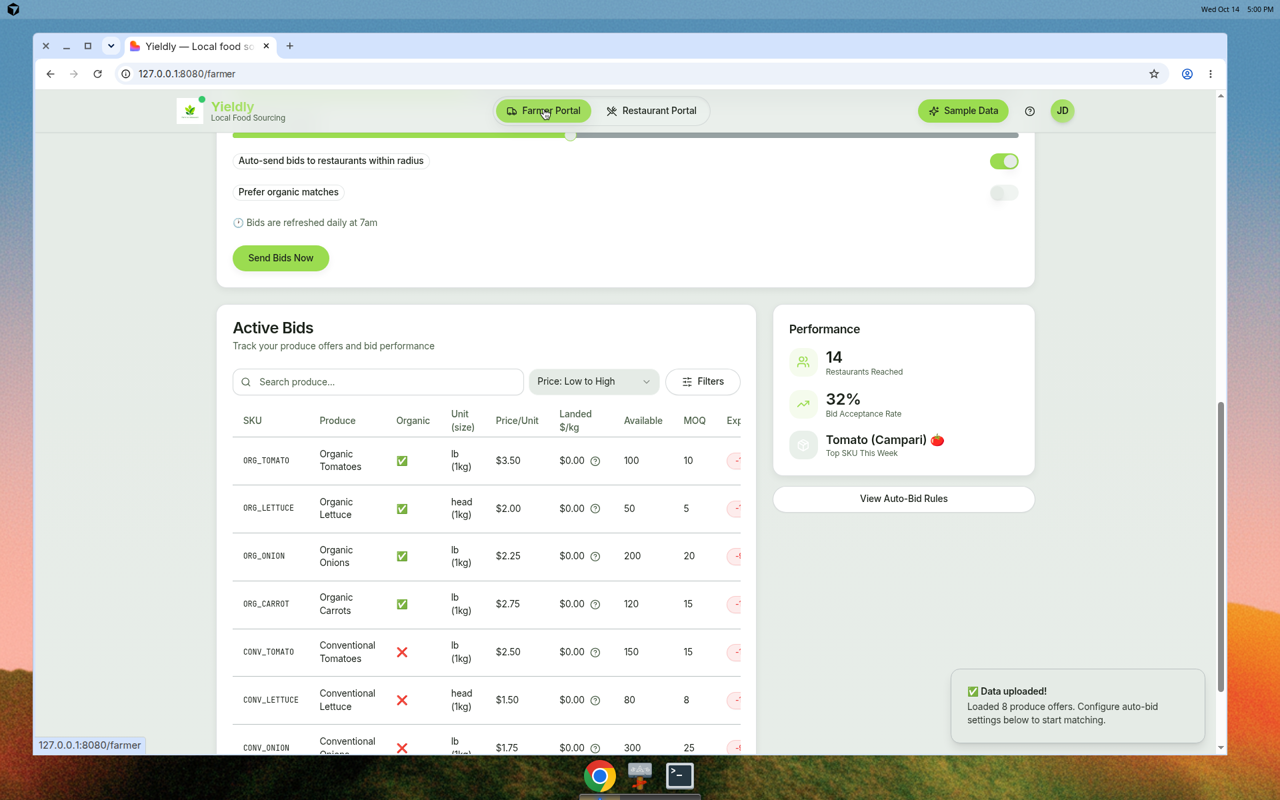
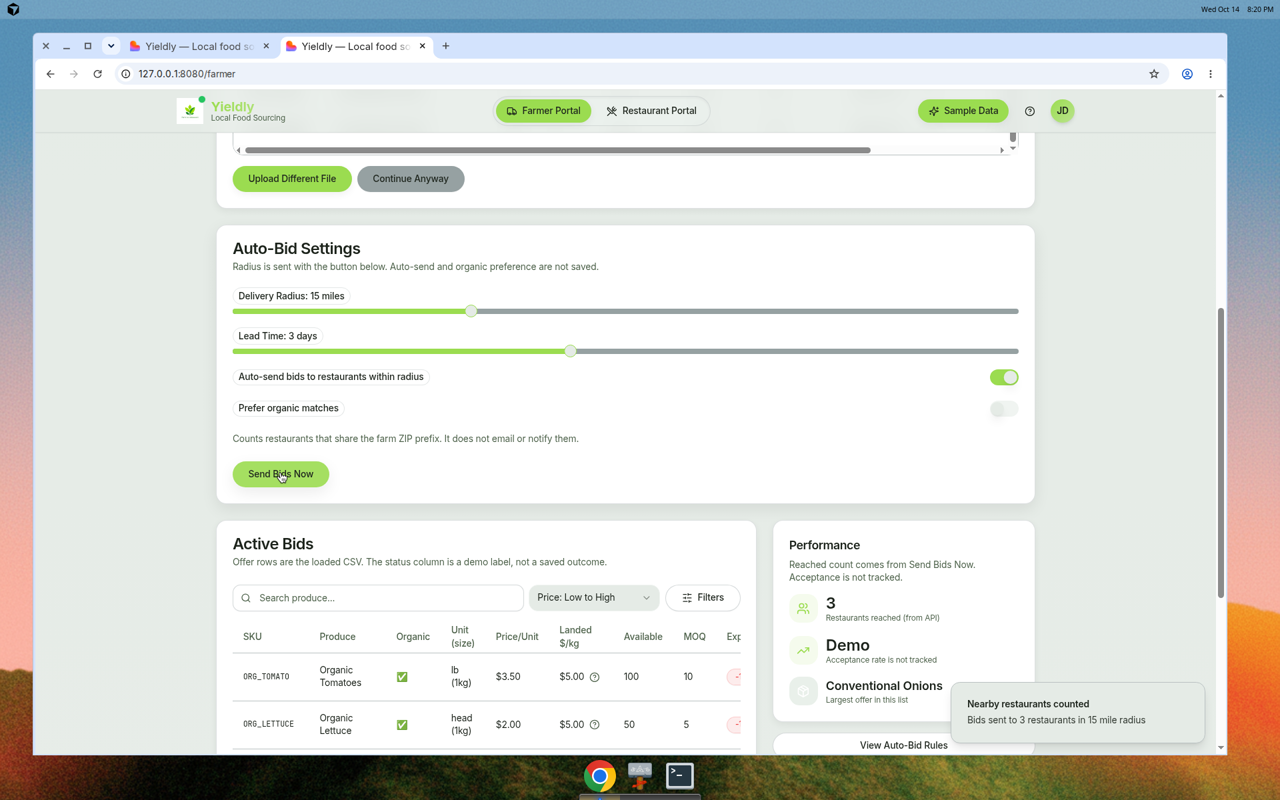
Document the signed savings, real bid count, and shared demand.
Replace the local screenshots so the README matches the farmer landed cost, the API restaurant count, weekly demand, and the cost-increase badge.

diff --git a/README.md b/README.md
@@ -8,15 +8,17 @@ Git history has one author, [Krishiv Seth](mailto:krishivseth05@gmail.com): the 
 
 ## Screenshots
 
-Farmer portal after **Sample Data**. The offer rows are parsed in the browser from `backend/sample_csvs/farmer_offers.csv`. The performance card (14 restaurants, 32% acceptance, top SKU) is hardcoded placeholder copy.
+Farmer portal after the sample CSV loads. Organic Tomatoes show a landed cost of **$5.00/kg** (`delivery_fee` of $15 spread over the minimum order). **Send Bids Now** asked the API how many restaurants share farm `FARM001`'s ZIP prefix; the card shows **3**. Acceptance is labeled demo because bid outcomes are not stored. The largest row in this CSV is Conventional Onions.
 
-![Farmer portal with sample offers loaded](docs/screenshots/farmer-portal.png)
+![Farmer portal with a real landed cost and restaurant count](docs/screenshots/farmer-portal.png)
 
-Restaurant portal after **Sample Data**, **Calculate Weekly Demand**, and **AI Optimize Plan**. The bids and the purchase plan are responses from the API on port 8000. The green badge reads “Savings vs baseline: $79.42/week”. On this same sample, `POST /restaurant/optimize_plan` returned `savings_vs_baseline` of about **-79.42**: the constrained plan cost more than the unconstrained baseline, and the UI prints `Math.abs`. See [Known issues](#known-issues).
+Restaurant demand for the sample menu, including 5% safety stock. Organic Lettuce is **8.29 kg**. Organic Carrots are on the list because the on-screen CSV includes them.
 
-![Restaurant bids from the API](docs/screenshots/restaurant-bids.png)
+![Weekly demand calculated from the menu on screen](docs/screenshots/restaurant-demand.png)
 
-![Purchase plan returned by the API](docs/screenshots/restaurant-purchase-plan.png)
+The purchase plan uses those same rows. The badge says **Cost increase vs baseline: $363.76/week** because minimum order quantities buy more than the menu needs, so `savings_vs_baseline` is negative. Lettuce in the plan is 8.29 kg, the same figure as the demand table. Onion and carrot quantities are higher because of minimum orders.
+
+![Purchase plan labeled as a cost increase](docs/screenshots/restaurant-purchase-plan.png)
 
 ## What the app actually does
 
@@ -26,19 +28,19 @@ Restaurant portal after **Sample Data**, **Calculate Weekly Demand**, and **AI O
 
 - Upload a produce CSV. With `GEMINI_API_KEY` set, column mapping can use Gemini. Without it, mapping is substring matching on the headers.
 - **Sample Data** loads the database seed and then shows `farmer_offers.csv` in the table.
-- Auto-bid radius, lead time, and organic preference are controls on the page. **Send Bids Now** only shows a toast. It does not call `POST /farmer/send_bids_now`.
-- **View Auto-Bid Rules** saves nothing. The dialog says the rule was created in demo mode.
+- **Send Bids Now** calls `POST /farmer/send_bids_now` with the radius slider and farm id `FARM001` (or a `farm_id` on the loaded rows). The API counts restaurants that share that farm's ZIP prefix. It does not email anyone. The performance card shows that count. Acceptance rate is labeled demo. The third line is the largest offer in the loaded list.
+- Auto-send and the organic preference switch are not saved. **View Auto-Bid Rules** saves nothing and says the rule was created in demo mode. The status column is labeled demo.
 
 **Restaurant portal** (`/restaurant`)
 
 - **Sample Data** loads the database seed, then shows `restaurant_menu.csv` (5 menu items) and `restaurant_ingredients.csv` (11 ingredients) in the page.
-- **Calculate Weekly Demand** runs in the browser from those rows (recipe quantity × expected orders ÷ yield).
+- **Calculate Weekly Demand** calls `POST /restaurant/weekly_demand` with the menu and ingredients on screen, including 5% safety stock.
 - **Bids in Your Area** calls `GET /restaurant/bids` for restaurant id `1`.
-- **AI Optimize Plan** calls `POST /restaurant/optimize_plan`. Without a Gemini key, the explanation is the built-in fallback sentence, not a model response.
+- **AI Optimize Plan** calls `POST /restaurant/optimize_plan` with those same menu rows. Without a Gemini key, the explanation is the built-in fallback sentence. If the plan costs more than the unconstrained baseline, the badge says cost increase instead of savings. Accepting the plan repeats that same figure.
 - Purchase-order and price-change export buttons call the export endpoints and download a CSV.
 - The market-intelligence panel calls `POST /restaurant/analyze_market_trends`. Without `BRAVE_SEARCH_API_KEY`, that service uses its built-in stand-in figures.
 
-The weekly demand table and the purchase plan are not the same calculation. Demand is computed in the browser from the sample CSVs. The optimizer reads SQLite for restaurant id `1`, which the seed fills with 3 menu items and 6 ingredients (Garden Salad, Caesar Salad, Tomato Soup). The sample CSVs also include a BLT and extra ingredients.
+Weekly demand and the purchase plan both start from the menu on screen. A plan quantity can still be higher than that demand when a farm's minimum order is larger than the menu needs. Offers themselves still come from the SQLite seed, whose expiry dates are relative to today. The farmer table is the CSV, whose expiry dates are January 2024.
 
 ## Setup
 
@@ -115,10 +117,11 @@ CORS allows `http://localhost:8080` and `http://127.0.0.1:8080`.
 | `POST` | `/dev/load_sample_data` | Replace SQLite rows with the seed |
 | `GET` | `/dev/sample_csvs/{filename}` | Download a file from `backend/sample_csvs/` |
 | `POST` | `/farmer/process_data` | Map and parse a farmer CSV payload |
-| `POST` | `/farmer/send_bids_now` | Count restaurants and return a simulated “bids sent” message |
+| `POST` | `/farmer/send_bids_now` | Count restaurants that share the farm ZIP prefix. Does not notify them. |
 | `POST` | `/restaurant/process_data` | Map and parse a restaurant CSV payload |
+| `POST` | `/restaurant/weekly_demand` | Kg by SKU for the menu rows in the request |
 | `GET` | `/restaurant/bids` | Feasible offers for a restaurant |
-| `POST` | `/restaurant/optimize_plan` | Greedy purchase plan and menu price nudges |
+| `POST` | `/restaurant/optimize_plan` | Greedy purchase plan. Uses menu rows in the body when they are sent. |
 | `POST` | `/restaurant/export_po` | Purchase-order CSV |
 | `POST` | `/restaurant/export_price_changes` | Price-change CSV |
 | `POST` | `/restaurant/analyze_market_trends` | Market panel data |
@@ -131,22 +134,20 @@ From `backend/`, with dependencies installed and `GEMINI_API_KEY` unset:
 
 | Check | Result |
 | --- | --- |
-| `python test_core.py` | **2 of 4 passed.** Optimization and pricing passed. Import and unit-conversion tests still load `app.services.parsing`, which is not in the tree. |
+| `python test_core.py` | **5 of 5 passed.** Imports, unit conversions, optimization, on-screen demand, and pricing. |
 | Import `app.main` with no API key | Server object loads. LLM `enabled` is false. Configured model name is `gemini-3.6-flash`. |
 | Import while blocking `google.generativeai` | Does not raise. LLM stays disabled. |
 | Print emoji to a strict cp1252 stdout | Raises `UnicodeEncodeError` before `configure_stdio()`, prints replacement characters after it. |
 | `uvicorn` on port 8000, no Gemini key | `GET /healthz` healthy. `GET /llm/status` reports the key is not configured. `POST /dev/load_sample_data`, `GET /restaurant/bids?restaurant_id=1`, and `POST /restaurant/optimize_plan` returned 200. |
 | `npm run build` in `frontend/` | Succeeds (`yieldly@0.0.0`). Vite warns that the JS chunk is over 500 kB. |
-| Browser at `http://127.0.0.1:8080` | Sample Data, weekly demand, bids (Green Valley Organic Farm and others), and a purchase plan all rendered. The API log showed those calls on port 8000. |
+| Browser at `http://127.0.0.1:8080` | Farmer landed cost for Organic Tomatoes was $5.00. Send Bids Now showed 3 restaurants. Demand listed Organic Lettuce at 8.29 kg and Organic Carrots. The plan badge said cost increase of $363.76/week and included carrots. No Gemini key. |
 
 ## Known issues
 
-- `backend/test_core.py` still imports the removed `app.services.parsing` module, so two tests fail.
-- Farmer **Send Bids Now**, the performance card, the “JD” avatar, and the auto-bid rule dialog are demo UI. They are not backed by saved data.
-- Accepting a purchase plan toasts a hardcoded “You're saving $412/week”, which is not the plan total.
-- The savings badge uses `Math.abs`. A negative `savings_vs_baseline` (the sample plan) is shown as money saved.
-- `backend/sample_csvs/farmer_offers.csv` uses January 2024 expiry dates and a `delivery_fee` column. The farmer table’s landed $/kg reads `delivery_fee_flat`, so those cells stay `$0.00`. The database seed uses dates relative to today and is what the bids endpoint returns.
-- The restaurant page’s demand table is the CSV. The optimizer uses the smaller SQLite seed for restaurant id `1`.
+- `backend/sample_csvs/farmer_offers.csv` expiry dates are January 2024, so the farmer expiry badges count backward from those dates. The bid list uses the database seed, whose dates are relative to today.
+- The farmer table treats `unit_size` as kilograms. The sample file's unit is `lb` with `unit_size` 1, and the cell is labeled `lb (1kg)`. Landed $/kg uses that 1 kg figure.
+- **Send Bids Now** with no `farm_id` on the row uses `FARM001`. Auto-send, organic preference, the “JD” avatar, and auto-bid rules are still not saved.
+- Purchase-order export still rebuilds a plan from the SQLite seed, not from the on-screen menu.
 - Upload templates point at `/templates/...`, and those files are not in `frontend/public`.
 - There is no authentication. The restaurant screen always uses restaurant id `1`.
 - The help button does nothing.
@@ -155,9 +156,7 @@ From `backend/`, with dependencies installed and `GEMINI_API_KEY` unset:
 
 ## Next steps
 
-- Call `POST /farmer/send_bids_now` from **Send Bids Now**, and replace the hardcoded performance numbers.
-- Show the sign of `savings_vs_baseline` instead of the absolute value, and use the real plan delta in the accept toast.
-- Make weekly demand and optimize read the same rows (either send the on-screen menu to the API, or render the seed).
-- Map `delivery_fee` in the sample farmer CSV, and refresh those expiry dates.
-- Point `test_core.py` at the services that exist now.
+- Refresh the sample farmer CSV dates, and convert `lb` to kilograms in the farmer table.
+- Point purchase-order export at the plan the page just accepted.
+- Persist auto-bid rules, or remove the controls that do not save.
 - Add auth before anyone treats this as more than a local demo.
